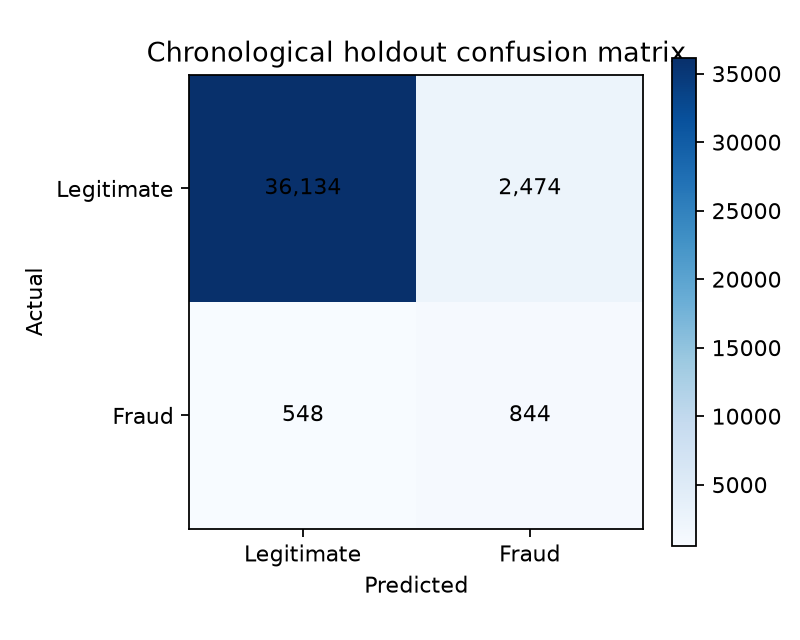
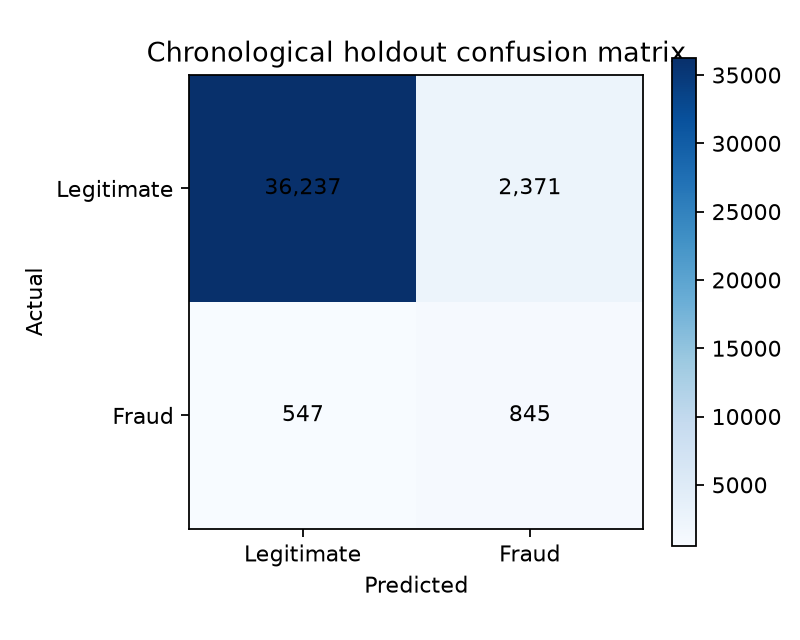
feat: evaluate XGBoost fraud classifier

diff --git a/src/ieee_fraud/training.py b/src/ieee_fraud/training.py
@@ -10,6 +10,7 @@ from sklearn.base import clone
 from sklearn.ensemble import HistGradientBoostingClassifier
 from sklearn.linear_model import SGDClassifier
 from sklearn.pipeline import Pipeline
+from xgboost import XGBClassifier
 
 from .config import TrainingConfig
 from .data import (
@@ -28,7 +29,9 @@ def _json_dump(payload: object, path: Path) -> None:
     path.write_text(json.dumps(payload, indent=2, sort_keys=True), encoding="utf-8")
 
 
-def candidate_models(config: TrainingConfig) -> dict[str, Pipeline]:
+def candidate_models(
+    config: TrainingConfig, positive_weight: float = 1.0
+) -> dict[str, Pipeline]:
     from .data import build_preprocessor
 
     return {
@@ -66,6 +69,29 @@ def candidate_models(config: TrainingConfig) -> dict[str, Pipeline]:
                 ),
             ]
         ),
+        "xgboost": Pipeline(
+            [
+                ("preprocessor", build_preprocessor()),
+                (
+                    "model",
+                    XGBClassifier(
+                        n_estimators=config.xgboost_estimators,
+                        max_depth=config.xgboost_max_depth,
+                        learning_rate=config.xgboost_learning_rate,
+                        min_child_weight=5,
+                        subsample=0.85,
+                        colsample_bytree=0.85,
+                        reg_lambda=2.0,
+                        scale_pos_weight=positive_weight,
+                        objective="binary:logistic",
+                        eval_metric="aucpr",
+                        tree_method="hist",
+                        n_jobs=config.n_jobs,
+                        random_state=config.random_seed,
+                    ),
+                ),
+            ]
+        ),
     }
 
 
@@ -78,7 +104,8 @@ def train_models(frame: pd.DataFrame, config: TrainingConfig) -> tuple[dict, Pip
     comparisons = []
     fitted_models: dict[str, Pipeline] = {}
     thresholds: dict[str, float] = {}
-    for name, model in candidate_models(config).items():
+    positive_weight = float((y_train == 0).sum() / max(1, (y_train == 1).sum()))
+    for name, model in candidate_models(config, positive_weight).items():
         model.fit(X_train, y_train)
         validation_probability = model.predict_proba(X_validation)[:, 1]
         threshold = threshold_at_fpr(

diff --git a/src/ieee_fraud/config.py b/src/ieee_fraud/config.py
@@ -16,6 +16,10 @@ class TrainingConfig:
     random_seed: int = 42
     target_false_positive_rate: float = 0.05
     hist_gradient_boosting_iterations: int = 120
+    xgboost_estimators: int = 500
+    xgboost_max_depth: int = 7
+    xgboost_learning_rate: float = 0.05
+    n_jobs: int = 4
 
     @classmethod
     def from_json(cls, path: str | Path) -> TrainingConfig:

diff --git a/README.md b/README.md
@@ -4,8 +4,9 @@ This is a standalone machine-learning project for the IEEE-CIS Fraud Detection d
 from the BAF project and has its own environment, data links, models, outputs, tests, API, and Git history.
 
 The pipeline merges transaction and identity records by `TransactionID`, uses a chronological
-train/validation/test split, compares SGD logistic classification with histogram gradient boosting, and selects
-the model with the highest validation PR-AUC. The held-out internal test period is not used for selection.
+train/validation/test split, compares SGD logistic classification, histogram gradient boosting, and
+XGBoost, and selects the model with the highest validation PR-AUC. The held-out internal test period is
+not used for selection.
 
 ## Dataset source
 
@@ -77,6 +78,11 @@ Team members can start from the [evaluation guide](evaluation/README.md) or open
 ![IEEE-CIS model comparison](outputs/model_comparison.png)
 
 ![IEEE-CIS prediction distribution](outputs/prediction_distribution.png)
+
+XGBoost was selected by validation PR-AUC (0.5403). On the held-out internal test period it achieved
+PR-AUC **0.4795**, ROC-AUC **0.8876**, precision **0.2627**, recall **0.6070**, and F1 **0.3668**.
+The validation threshold targets a 5% false-positive rate; the observed test false-positive rate was
+6.14% under temporal drift.
 
 ## Setup in PyCharm
 
